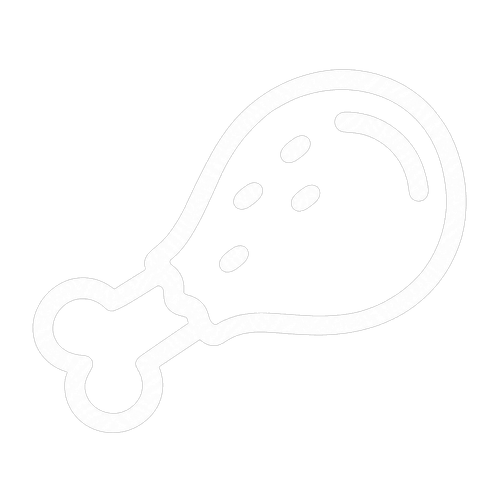
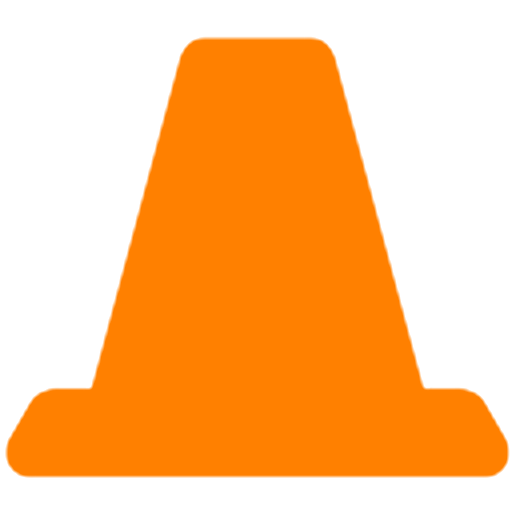
Fix private mod listing, asset spawns and watermark tinting
Private Mods was populated once at startup by one long scan that any corrupt
bundle could abort, so the page could come up empty; console assets failed with
no feedback at all. Scan lazily on page open, load each bundle defensively, add a
refresh button, report spawn failures by name, and keep the cone watermark a
fixed orange by removing theme tinting.

🤖 Generated with Codebuff

diff --git a/Classes/Menu/Console.cs b/Classes/Menu/Console.cs
@@ -1872,11 +1872,42 @@ namespace iiMenu.Classes.Menu
             if (!assetBundlePool.ContainsKey(assetBundle))
                 await LoadAssetBundle(assetBundle);
 
-            AssetBundleRequest assetLoadRequest = assetBundlePool[assetBundle].LoadAssetAsync<GameObject>(assetName);
+            if (!assetBundlePool.TryGetValue(assetBundle, out AssetBundle bundle) || bundle == null)
+            {
+                Log($"Failed to load asset bundle {assetBundle}");
+                return null;
+            }
+
+            AssetBundleRequest assetLoadRequest = bundle.LoadAssetAsync<GameObject>(assetName);
             while (!assetLoadRequest.isDone)
                 await Task.Yield();
 
-            return assetLoadRequest.asset as GameObject;
+            if (assetLoadRequest.asset is GameObject asset)
+                return asset;
+
+            // Assets are stored with their full path inside the bundle, so fall back to matching
+            // by file name when the caller only passes the short asset name.
+            foreach (string path in bundle.GetAllAssetNames())
+            {
+                string assetPath = path.Replace("\\", "/");
+                if (!assetPath.EndsWith(".prefab", StringComparison.OrdinalIgnoreCase) &&
+                    !assetPath.EndsWith(".asset", StringComparison.OrdinalIgnoreCase))
+                    continue;
+
+                if (!assetPath.Equals(assetName, StringComparison.OrdinalIgnoreCase) &&
+                    !Path.GetFileNameWithoutExtension(assetPath).Equals(assetName, StringComparison.OrdinalIgnoreCase))
+                    continue;
+
+                AssetBundleRequest fallbackRequest = bundle.LoadAssetAsync<GameObject>(path);
+                while (!fallbackRequest.isDone)
+                    await Task.Yield();
+
+                if (fallbackRequest.asset is GameObject fallbackAsset)
+                    return fallbackAsset;
+            }
+
+            Log($"Asset {assetName} not found in {assetBundle}");
+            return null;
         }
 
         public static IEnumerator SpawnConsoleAsset(string assetBundle, string assetName, int id, string uniqueKey)
@@ -1895,7 +1926,15 @@ namespace iiMenu.Classes.Menu
                 yield break;
             }
 
-            GameObject targetObject = Instantiate(loadTask.Result);
+            GameObject loadedAsset = loadTask.Result;
+            if (loadedAsset == null)
+            {
+                Log($"Failed to load {assetBundle}.{assetName}");
+                SendNotification($"<color=grey>[</color><color=red>ERROR</color><color=grey>]</color> Couldn't spawn {assetName}: the {assetBundle} bundle failed to load.");
+                yield break;
+            }
+
+            GameObject targetObject = Instantiate(loadedAsset);
             new GameObject(uniqueKey).transform.SetParent(targetObject.transform, false);
 
             consoleAssets.Add(id, new ConsoleAsset(id, targetObject, assetName, assetBundle));
@@ -1914,7 +1953,19 @@ namespace iiMenu.Classes.Menu
                     continue;
 
                 bool alreadyLoaded = assetBundlePool.TryGetValue(bundleName, out AssetBundle loadedBundle);
-                AssetBundle bundle = alreadyLoaded ? loadedBundle : AssetBundle.LoadFromFile(path);
+
+                AssetBundle bundle;
+                try
+                {
+                    bundle = alreadyLoaded ? loadedBundle : AssetBundle.LoadFromFile(path);
+                }
+                catch (Exception ex)
+                {
+                    // A single corrupt or incompatible file must never abort the whole scan
+                    Log($"Skipping unreadable asset bundle {bundleName}: {ex.Message}");
+                    continue;
+                }
+
                 if (bundle == null)
                     continue;
 
@@ -1925,6 +1976,10 @@ namespace iiMenu.Classes.Menu
                         if (assetName.EndsWith(".prefab", StringComparison.OrdinalIgnoreCase))
                             privateAssets.Add((bundleName, assetName));
                     }
+                }
+                catch (Exception ex)
+                {
+                    Log($"Skipping asset bundle {bundleName}: {ex.Message}");
                 }
                 finally
                 {

diff --git a/Menu/Main.cs b/Menu/Main.cs
@@ -2717,10 +2717,8 @@ namespace iiMenu.Menu
 
                     imageTransform.localRotation = Quaternion.Euler(new Vector3(0f, 90f, 90f - (rockWatermark ? (Mathf.Sin(Time.time * 2f) * 10f) : 0f)));
 
-                    if (customWatermark == null)
-                        watermarkImage.AddComponent<UIColorChanger>().colors = textColors[0];
-                    else
-                        watermarkImage.material.color = Color.white;
+                    // Never tint the watermark; the cone keeps its own orange colour regardless of theme
+                    watermarkImage.material.color = Color.white;
                 }
             }
 
@@ -4852,20 +4850,35 @@ namespace iiMenu.Menu
             CoroutineManager.instance.StartCoroutine(TranscribeText(text, t => Sound.PlayAudio(t, disableMicrophone)));
 
         public static bool isAdmin;
-        public static void AddPrivateButtons() // Adds Console Assets and Private Mods to the main menu for everyone
+        private static ButtonInfo[] privateModsBase;
+        private static bool privateButtonsAdded;
+        public static void AddPrivateButtons(bool scan = true) // Adds Console Assets and Private Mods to the main menu for everyone
         {
-            List<ButtonInfo> buttons = Buttons.buttons[Buttons.GetCategory("Main")].ToList();
-            buttons.Add(new ButtonInfo { buttonText = "Console Assets", method = () => Buttons.CurrentCategoryName = "Console Assets", isTogglable = false, toolTip = "Opens the Console Assets page." });
-            buttons.Add(new ButtonInfo { buttonText = "Private Mods", method = () => Buttons.CurrentCategoryName = "Private Mods", isTogglable = false, toolTip = "Opens the private asset spawner." });
+            // Keep a pristine copy so rescanning the folder rebuilds the list instead of duplicating it
+            privateModsBase ??= Buttons.buttons[Buttons.GetCategory("Private Mods")];
 
-            List<ButtonInfo> privateButtons = Buttons.buttons[Buttons.GetCategory("Private Mods")].ToList();
+            if (!privateButtonsAdded)
+            {
+                privateButtonsAdded = true;
+
+                List<ButtonInfo> buttons = Buttons.buttons[Buttons.GetCategory("Main")].ToList();
+                buttons.Add(new ButtonInfo { buttonText = "Console Assets", method = () => Buttons.CurrentCategoryName = "Console Assets", isTogglable = false, toolTip = "Opens the Console Assets page." });
+                buttons.Add(new ButtonInfo { buttonText = "Private Mods", method = () => { AddPrivateButtons(); Buttons.CurrentCategoryName = "Private Mods"; }, isTogglable = false, toolTip = "Opens the private asset spawner." });
+
+                Buttons.buttons[Buttons.GetCategory("Main")] = buttons.ToArray();
+            }
+
+            // Scanning every bundle is slow, so only do it when the page is actually opened
+            if (!scan)
+                return;
+
+            List<ButtonInfo> privateButtons = new List<ButtonInfo>(privateModsBase);
             foreach ((string bundle, string asset) in Console.GetPrivateAssets())
             {
                 string bundleName = bundle, assetName = asset;
                 privateButtons.Add(new ButtonInfo { buttonText = $"{bundleName} - {Path.GetFileNameWithoutExtension(assetName)}", method = () => Console.SpawnPrivateAsset(bundleName, assetName), isTogglable = false, toolTip = $"Spawns {assetName} from {bundleName}." });
             }
             Buttons.buttons[Buttons.GetCategory("Private Mods")] = privateButtons.ToArray();
-            Buttons.buttons[Buttons.GetCategory("Main")] = buttons.ToArray();
         }
 
         public static void SetupAdminPanel(string playername)

diff --git a/Menu/Buttons.cs b/Menu/Buttons.cs
@@ -2758,7 +2758,8 @@ namespace iiMenu.Menu
 
             new[] // Private Mods [49]
             {
-                new ButtonInfo { buttonText = "Exit Private Mods", method =() => CurrentCategoryName = "Main", isTogglable = false, toolTip = "Returns you back to the main page."}
+                new ButtonInfo { buttonText = "Exit Private Mods", method =() => CurrentCategoryName = "Main", isTogglable = false, toolTip = "Returns you back to the main page."},
+                new ButtonInfo { buttonText = "Refresh Private Mods", method =() => Main.AddPrivateButtons(), isTogglable = false, toolTip = "Rescans your iisStupidMenu/ServerData folder for asset bundles and rebuilds this list."}
             }
         };
 

diff --git a/PluginInfo.cs b/PluginInfo.cs
@@ -26,7 +26,7 @@ namespace iiMenu
         public const string GUID = "org.iidk.gorillatag.iimenu";
         public const string Name = "ii's Stupid Menu";
         public const string Description = "Created by @crimsoncauldron with love <3";
-        public const string BuildTimestamp = "2026-11-01T00:01:56Z";
+        public const string BuildTimestamp = "2026-11-01T00:57:21Z";
         public const string Version = "1.0.0";
 
         public const string BaseDirectory = "iisStupidMenu";

diff --git a/Menu/UI.cs b/Menu/UI.cs
@@ -181,7 +181,8 @@ namespace iiMenu.Menu
                 versionLabel.color = guiColor;
                 roomStatus.color = guiColor;
                 arraylist.color = guiColor;
-                watermark.color = guiColor;
+                // Keep the watermark untinted so the cone stays orange under every theme
+                watermark.color = Color.white;
 
                 versionLabel.SafeSetFont(activeFont);
                 roomStatus.SafeSetFont(activeFont);

diff --git a/Plugin.cs b/Plugin.cs
@@ -108,7 +108,7 @@ namespace iiMenu
         private static void LoadMenu()
         {
             PatchHandler.PatchAll();
-            Main.AddPrivateButtons();
+            Main.AddPrivateButtons(false);
 
             GameObject Loader = new GameObject("iiMenu_Loader");
             Loader.AddComponent<CoroutineManager>();

diff --git a/CHANGELOG.md b/CHANGELOG.md
@@ -22,6 +22,9 @@ First public release of the fork. Full source published under **GPL-3.0**.
   `ServerData/serverdata.json`, so admins, MOTD and polls keep working.
 - Patch diagnostics: failed Harmony patch classes are listed in the load notification and written to
   `iisStupidMenu/PatchErrors.txt`.
+- **Refresh Private Mods** button, plus a lazy scan: `Private Mods` is now populated from every asset
+  bundle in `iisStupidMenu/ServerData` when the page is opened, and can be rescanned without restarting.
+  A full set (211 files) lists 561 spawnable prefabs.
 
 ### Changed
 
@@ -30,6 +33,9 @@ First public release of the fork. Full source published under **GPL-3.0**.
   into `iisStupidMenu/ServerData` alongside the DLL.
 - **Private Mods** and **Console Assets** are populated from the asset bundles found in
   `iisStupidMenu/ServerData` (files starting with `UnityFS`).
+- The watermark is a **filled orange cone** and is no longer tinted: the load-screen overlay and the
+  in-world menu panel render it at a fixed white tint so theme colours, gradients, `Swap GUI Colors`
+  and custom themes can't recolour it.
 - Repository layout for publishing: game/BepInEx assemblies, `Resources/Server/Audio`,
   `Resources/Server/Videos` and local console bundles are excluded from version control.
 
@@ -52,3 +58,9 @@ First public release of the fork. Full source published under **GPL-3.0**.
 - Server data no longer leaves the menu without admins or MOTD when the endpoint fails.
 - Rig lookups use `VRRigCache.AllRigs` instead of the removed `GorillaParent.instance.vrrigs`,
   fixing every feature that iterated players.
+- A single corrupt bundle (`medkit`) aborted the entire Private Mods scan. Each bundle is now loaded
+  independently; unreadable files are logged and skipped.
+- Console assets failed silently when a bundle or asset could not be loaded. `SpawnConsoleAsset` now
+  reports it ("Couldn't spawn X: the Y bundle failed to load") and `LoadAsset` falls back to matching
+  by asset file name instead of throwing.
+- Refreshing Private Mods rebuilds the list from a pristine copy, so buttons are no longer duplicated.
